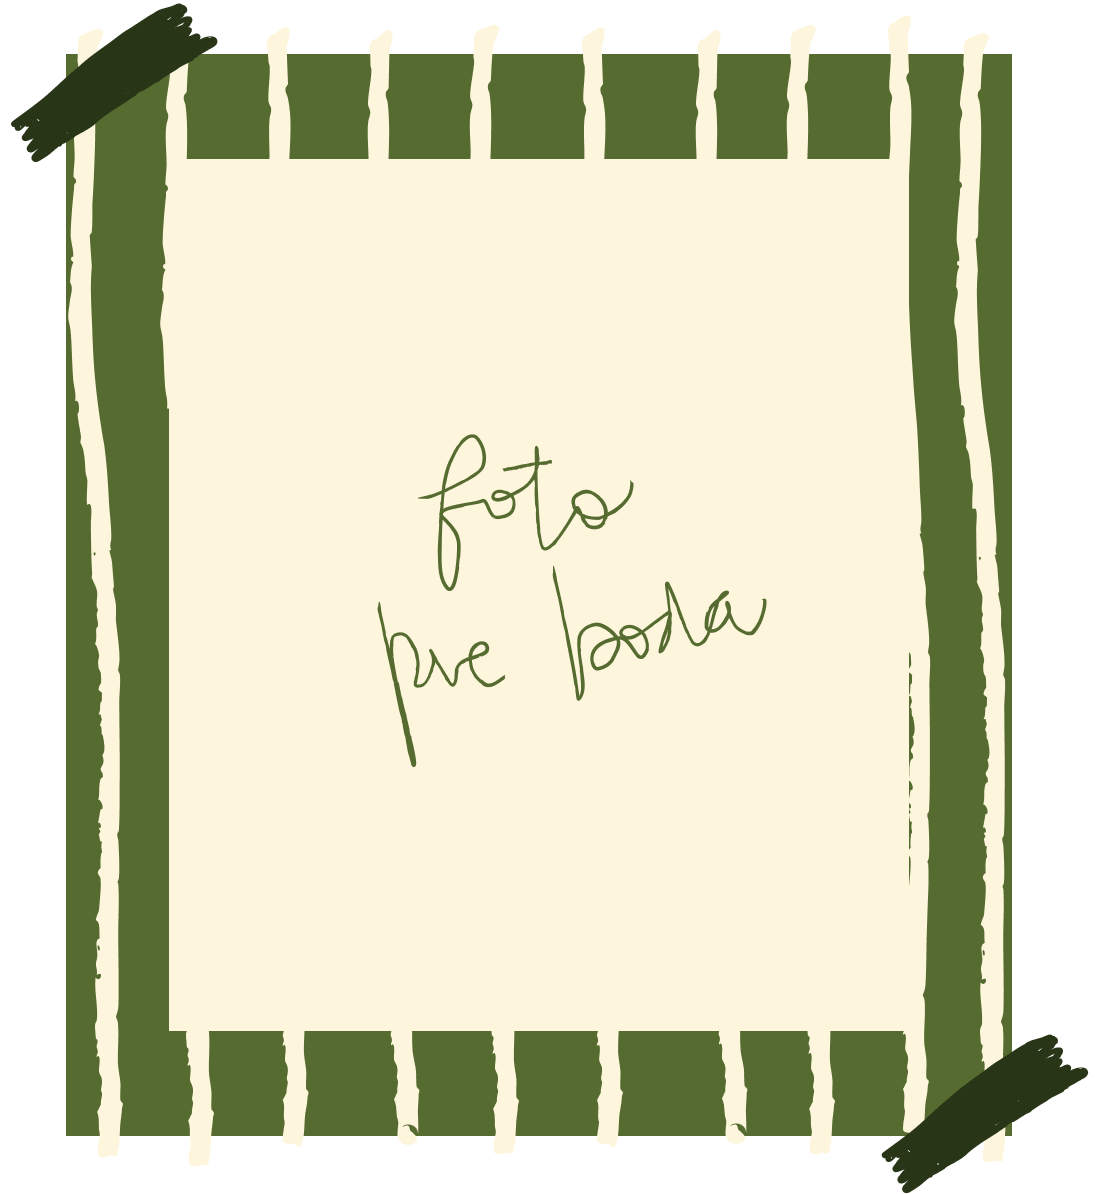
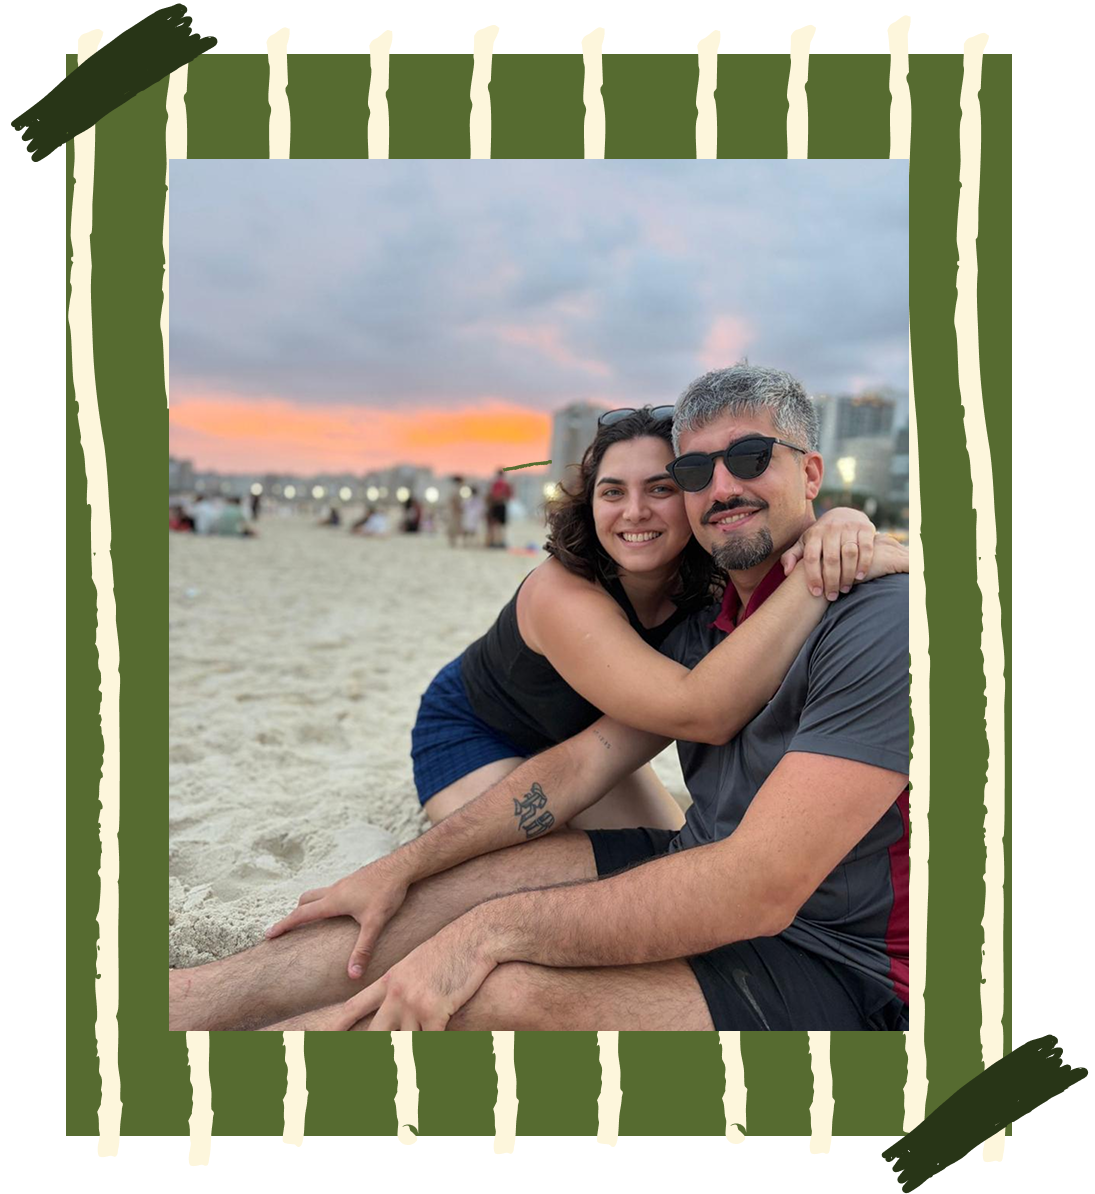
fix: prevent iPhone Safari zoom on RSVP inputs

diff --git a/src/features/invitations/components/design-01/micros-botanical-editorial.tsx b/src/features/invitations/components/design-01/micros-botanical-editorial.tsx
@@ -135,14 +135,14 @@ export function MicrosBotanicalEditorial({ slug }: Props) {
         <div
           className="absolute top-16 left-1/2 -translate-x-1/2 mx-auto -mt-2 flex w-[65%] max-w-md flex-col items-center px-6 md:absolute md:top-[40%] md:left-1/2 md:-translate-x-1/2 md:px-0">
           <p
-            className="max-w-xs text-center font-altivo text-[0.55rem] leading-tight md:max-w-xl md:w-xl md:text-lg">
+            className="max-w-xs text-center font-altivo text-base leading-tight md:max-w-xl md:w-xl md:text-lg">
             Dispondremos de viajes en combi ida y vuelta para que solo te
             preocupes por el outfit!
           </p>
 
           {/* Paradas */}
           <div
-            className="mt-2 flex items-center w-full justify-center gap-2 font-script text-xs md:mt-7 md:gap-12 md:text-xl">
+            className="mt-2 flex items-center w-full justify-center gap-2 font-script text-base md:mt-7 md:gap-12 md:text-xl">
             <label className="flex cursor-pointer items-center gap-2">
               <input
                 type="radio"
@@ -174,7 +174,7 @@ export function MicrosBotanicalEditorial({ slug }: Props) {
               value={fullName}
               onChange={(event) => setFullName(event.target.value)}
               placeholder="Nombre completo"
-              className="h-7 w-4/5 mx-auto rounded-full border-0 bg-(--design-01-primary) px-5 font-script text-sm text-(--design-01-white) outline-none placeholder:text-(--design-01-white) md:h-12 md:px-8 md:text-xl"
+              className="h-7 w-4/5 mx-auto rounded-full border-0 bg-(--design-01-primary) px-5 font-script text-base text-(--design-01-white) outline-none placeholder:text-(--design-01-white) md:h-12 md:px-8 md:text-xl"
             />
 
             <input
@@ -182,7 +182,7 @@ export function MicrosBotanicalEditorial({ slug }: Props) {
               value={phone}
               onChange={(event) => setPhone(event.target.value)}
               placeholder="Teléfono"
-              className="h-7 w-4/5 mx-auto rounded-full border-0 bg-(--design-01-primary) px-5 font-script text-sm text-(--design-01-white) outline-none placeholder:text-(--design-01-white) md:h-12 md:px-8 md:text-xl" />
+              className="h-7 w-4/5 mx-auto rounded-full border-0 bg-(--design-01-primary) px-5 font-script text-base text-(--design-01-white) outline-none placeholder:text-(--design-01-white) md:h-12 md:px-8 md:text-xl" />
           </div>
 
           {/* Botón */}

diff --git a/src/app/invitacion/[slug]/page.tsx b/src/app/invitacion/[slug]/page.tsx
@@ -1,15 +1,61 @@
+import type { Metadata } from "next";
 import { notFound } from "next/navigation";
 
 import { getPublicInvitation } from "@/features/invitations/services/get-public-invitation";
 import { InvitationSectionRenderer } from "@/features/invitations/components/invitation-section-renderer";
 
-export default async function InvitationPage({
-  params,
-}: {
-  params: Promise<{ slug: string }>;
-}) {
-  const { slug } = await params;
+const siteUrl = "https://invitacionesberacah.vercel.app";
 
+type Props = {
+  params: Promise<{ slug: string }>;
+};
+
+export async function generateMetadata({
+  params,
+}: Props): Promise<Metadata> {
+  const { slug } = await params;
+  const invitation = await getPublicInvitation(slug);
+
+  if (!invitation) {
+    return {
+      title: "Invitación no encontrada | Invitaciones Beracah",
+    };
+  }
+
+  const title = `${invitation.name} | Invitación de boda`;
+ const date = invitation.weddingDate
+  ? new Intl.DateTimeFormat("es-AR", {
+      dateStyle: "long",
+      timeZone: "UTC",
+    }).format(invitation.weddingDate)
+  : null;
+
+const description = date
+  ? `Te invitamos a celebrar nuestra boda. ${invitation.name} · ${date}. Conocé todos los detalles de este día especial.`
+  : `Te invitamos a celebrar nuestra boda. ${invitation.name}. Conocé todos los detalles de este día especial.`;
+
+  return {
+    title,
+    description,
+    openGraph: {
+      type: "website",
+      locale: "es_AR",
+      siteName: "Invitaciones Beracah",
+      title,
+      description,
+      url: `${siteUrl}/invitacion/${encodeURIComponent(slug)}`,
+      // Agregaremos la imagen cuando subas el logo.
+    },
+    twitter: {
+      card: "summary_large_image",
+      title,
+      description,
+    },
+  };
+}
+
+export default async function InvitationPage({ params }: Props) {
+  const { slug } = await params;
   const invitation = await getPublicInvitation(slug);
 
   if (!invitation) {
@@ -18,7 +64,7 @@ export default async function InvitationPage({
 
   return (
     <main className="min-h-screen">
-      {invitation.invitationSections.map(section => (
+      {invitation.invitationSections.map((section) => (
         <InvitationSectionRenderer
           key={section.id}
           section={section}

diff --git a/src/features/rsvp/components/public-rsvp-form.tsx b/src/features/rsvp/components/public-rsvp-form.tsx
@@ -166,7 +166,7 @@ async function submit() {
             items-center
             gap-1.5
             font-script
-            text-sm
+            text-base
             md:gap-2
             md:text-xl
           "
@@ -199,7 +199,7 @@ async function submit() {
             items-center
             gap-1.5
             font-script
-            text-sm
+            text-base
             md:gap-2
             md:text-xl
           "
@@ -254,7 +254,7 @@ async function submit() {
             bg-(--design-01-primary)
             px-5
             font-script
-            text-sm
+            text-base
             text-(--design-01-white)
             outline-none
             placeholder:text-(--design-01-white)
@@ -277,7 +277,7 @@ async function submit() {
             bg-(--design-01-primary)
             px-5
             font-script
-            text-sm
+            text-base
             text-(--design-01-white)
             outline-none
             placeholder:text-(--design-01-white)
@@ -300,7 +300,7 @@ async function submit() {
           px-8
           py-1
           font-script
-          text-sm
+          text-base
           text-(--design-01-white)
           transition-opacity
           disabled:opacity-50

diff --git a/src/features/invitations/components/design-01/prewedding-photo-botanical-editorial.tsx b/src/features/invitations/components/design-01/prewedding-photo-botanical-editorial.tsx
@@ -10,6 +10,8 @@ export function PreweddingPhotoBotanicalEditorial() {
         width={1200}
         height={900}
         className="hidden h-auto w-1/2 mx-auto md:block px-24"
+        loading="eager"
+
       />
 
       <Image
@@ -18,6 +20,7 @@ export function PreweddingPhotoBotanicalEditorial() {
         width={650}
         height={900}
         className="block h-auto w-full md:hidden"
+        loading="eager"
       />
     </section>
   );
